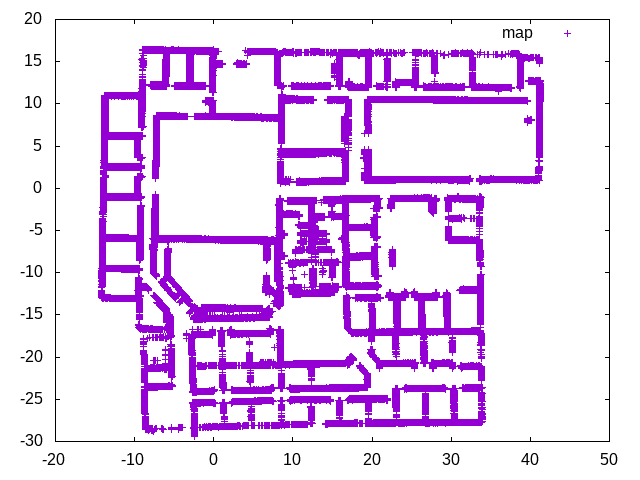
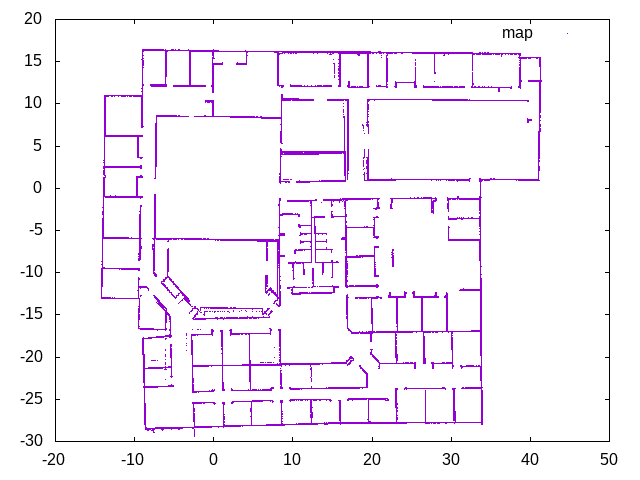
fix obj map calculating

Changed region(s): [[0.1562, 0.0938, 0.875, 0.9062]]

diff --git a/routing/routing.go b/routing/routing.go
@@ -9,9 +9,9 @@ import (
 )
 
 const (
-	CloseThreth       uint8 = 90      //これより大きいと通れない  [0,100]
-	MaxTimeLength     int   = 1000000 //これ以上のtを計算しない
-	MaxSearchTimeStep int   = 1000    //これ以上先の時間を計算しない
+	CloseThreth       int8 = 90     //これより大きいと通れない  [0,100]
+	MaxTimeLength     int  = 100000 //これ以上のtを計算しない
+	MaxSearchTimeStep int  = 1000   //これ以上先の時間を計算しない
 )
 
 type Point struct {
@@ -58,6 +58,7 @@ func NewIndexT(t, x, y int) *IndexT {
 // type CostMap map[Index]uint8
 type TimeCostMap []CostMap
 type CostMap [][]int8
+type TimeObjMap [][][]bool
 
 type GridMap struct {
 	Resolution float64
@@ -65,7 +66,7 @@ type GridMap struct {
 	Width      int
 	Height     int
 
-	TW        TimeCostMap
+	TW        TimeObjMap
 	MaxT      int
 	ObjectMap [][]bool //元からある障害物ならTrue
 }
@@ -86,44 +87,56 @@ func (g GridMap) Pos2Ind(x, y float64) (int, int) {
 	return xid, yid
 }
 
-func NewGridMap(reso float64, origin Point, maxT, width, height int, data []int8) *GridMap {
+func NewGridMap(m MapMeta, maxT int, robotRadius float64) *GridMap {
 	g := new(GridMap)
-	g.Resolution = reso
-	g.Origin = origin
-	g.Width = width
-	g.Height = height
+	g.Resolution = m.Reso
+	g.Origin = m.Origin
+	g.Width = m.W
+	g.Height = m.H
 	g.MaxT = maxT
-	g.TW = []CostMap{}
-	g.ObjectMap = make([][]bool, height)
-	g.TW = make(TimeCostMap, maxT)
+	g.ObjectMap = make([][]bool, m.H)
+	for i := 0; i < m.H; i++ {
+		g.ObjectMap[i] = make([]bool, m.W)
+	}
+	g.TW = make(TimeObjMap, maxT)
 
-	line := make([]int8, width)
-	grid := make([][]int8, height)
-	objLine := make([]bool, width)
-	for i, d := range data {
+	width := m.W
+
+	var objList [][2]float64
+	for i, d := range m.Data {
 		if d > int8(CloseThreth) {
-			objLine[i%width] = true
+			g.ObjectMap[i/width][i%width] = true
+			objList = append(objList, [2]float64{m.Origin.X + float64(i%width)*m.Reso, m.Origin.Y + float64(i/width)*m.Reso})
 		} else {
-			objLine[i%width] = false
-		}
-		line[i%width] = d
-		if i%width == width-1 {
-			grid[i/width] = line
-			line = make([]int8, width)
-			g.ObjectMap[i/width] = objLine
-			objLine = make([]bool, width)
+			g.ObjectMap[i/width][i%width] = false
 		}
 	}
+	log.Print("load ros data")
 
-	// var prx, pry int
+	start := time.Now()
+	for j := 0; j < m.H; j++ {
+		if j%2 == 1 {
+			continue
+		}
+		y := g.Origin.Y + float64(j)*m.Reso
+		for i := 0; i < m.W; i++ {
+			if i%2 == 1 {
+				continue
+			}
+			x := m.Origin.X + float64(i)*m.Reso
+			for _, op := range objList {
+				d := math.Hypot(x-op[0], y-op[1])
+				if d <= robotRadius {
+					g.ObjectMap[j][i] = true
+				}
+			}
+		}
+	}
+	elaps := time.Now().Sub(start).Seconds()
+	log.Printf("load objmap using robot radius takes %f seconds", elaps)
+
 	for i := 0; i < maxT; i++ {
-		// rx := rand.Intn(width)
-		// ry := rand.Intn(height)
-		// grid[ry][rx] = 100
-		// grid[pry][prx] = 0
-		// prx = rx
-		// pry = ry
-		g.TW[i] = grid
+		g.TW[i] = g.ObjectMap
 	}
 	return g
 }
@@ -132,11 +145,11 @@ func (m GridMap) Plan(sx, sy, gx, gy int) (route [][3]int, oerr error) {
 	startTime := time.Now()
 
 	if m.ObjectMap[gy][gx] {
-		oerr = errors.New("path planning error: goal is not verified...")
+		oerr = errors.New("path planning error: goal is not verified")
 		return nil, oerr
 	}
 	if m.ObjectMap[sy][sx] {
-		oerr = errors.New("path planning error: start point is not verified...")
+		oerr = errors.New("path planning error: start point is not verified")
 		return nil, oerr
 	}
 	start := &Node{T: 0, XId: sx, YId: sy, Cost: 0, Parent: nil}
@@ -297,11 +310,11 @@ func (n *Node) Around(g *GridMap, minTime int) []*Node {
 
 		mCost := g.TW[aT][aY][aX]
 		//通れないコストマップは外す
-		if mCost > int8(CloseThreth) {
+		if mCost {
 			continue
 		}
 
-		node := n.NewNode(aT, aX, aY, n.Cost+m[3]+float64(mCost)/10) //要修正
+		node := n.NewNode(aT, aX, aY, n.Cost+m[3]) //要修正
 		around = append(around, node)
 	}
 	return around

diff --git a/main.go b/main.go
@@ -26,9 +26,9 @@ import (
 )
 
 var (
-	mode        Mode    = ASTAR2D
+	mode        Mode    = ASTAR3D
 	resolution  float64 = 0.5
-	robotRadius float64 = 0.3
+	robotRadius float64 = 0.35
 
 	mapFile  string = "map/willow_garage_v_edited.pgm"
 	yamlFile string = "map/willow_garage_v_edited.yaml"
@@ -132,48 +132,6 @@ func subsclibeRouteSupply(client *sxutil.SXServiceClient) {
 	}
 }
 
-// func mqqtCallback(clt *sxutil.SXServiceClient, sp *api.Supply) {
-// 	if sp.SenderId == uint64(clt.ClientID) {
-// 		return
-// 	}
-
-// 	rcd := &sxmqtt.MQTTRecord{}
-// 	err := proto.Unmarshal(sp.Cdata.Entity, rcd)
-// 	if err != nil {
-// 		log.Print(err)
-// 	}
-
-// 	if strings.HasPrefix(rcd.Topic, "map/") {
-// 		if strings.HasPrefix(rcd.Topic, "map/global_costmap") {
-// 			if !mapMetaUpdate {
-// 				log.Print("updating global costmap..")
-// 				mu.Lock()
-// 				defer mu.Unlock()
-// 				var occupancy ros.OccupancyGrid
-// 				merr := json.Unmarshal(rcd.Record, &occupancy)
-// 				if merr != nil {
-// 					log.Print(merr)
-// 				} else {
-// 					mapMeta = grid.LoadROSMap(occupancy, 50)
-// 					maxT := grid.MaxTimeLength
-// 					gridMap = grid.NewGridMap(mapMeta.Reso, mapMeta.Origin, maxT, mapMeta.W, mapMeta.H, mapMeta.Data)
-// 					log.Print("global costmap updated")
-// 					mapMetaUpdate = true
-// 				}
-// 			}
-// 		}
-// 	}
-
-// }
-
-// func subsclibeMQQTSupply(client *sxutil.SXServiceClient) {
-// 	ctx := context.Background()
-// 	for {
-// 		client.SubscribeSupply(ctx, mqqtCallback)
-// 		reconnectClient(client)
-// 	}
-// }
-
 func reconnectClient(client *sxutil.SXServiceClient) {
 	mu.Lock()
 	if client.SXClient != nil {
@@ -206,9 +164,9 @@ func handleMqttMessage() {
 			} else {
 				mapMeta = grid.LoadROSMap(occupancy, 50)
 				maxT := grid.MaxTimeLength
-				gridMap = grid.NewGridMap(mapMeta.Reso, mapMeta.Origin, maxT, mapMeta.W, mapMeta.H, mapMeta.Data)
+				gridMap = grid.NewGridMap(*mapMeta, maxT, robotRadius)
 				log.Print("global costmap updated")
-				plot2d.AddPointGroup("costmap", "points", gridMap.ConvertObjMap2Point())
+				plot2d.AddPointGroup("costmap", "dots", gridMap.ConvertObjMap2Point())
 				mapMetaUpdate = true
 				plot2d.SavePlot("map/global_costmap.png")
 			}
@@ -266,25 +224,24 @@ func main() {
 	plot2d, _ = glot.NewPlot(2, false, false)
 	plot3d, _ = glot.NewPlot(3, false, false)
 
-	if mode == ASTAR2D {
-		mapMeta, err = grid.ReadStaticMapImage(yamlFile, mapFile, 230)
-		if err != nil {
-			log.Print(err)
-		}
-		objMap := mapMeta.GetObjectMap()
-		plot, _ := glot.NewPlot(2, false, false)
-		err := plot.AddPointGroup("map", "points", grid.Convert2DPoint(objMap))
-		if err != nil {
-			log.Print(err)
-		}
-		err = plot.SavePlot("map/generated_static_map.png")
-		if err != nil {
-			log.Print(err)
-		}
-		astarPlanner = astar.NewAstar(objMap, robotRadius, resolution)
+	mapMeta, err = grid.ReadStaticMapImage(yamlFile, mapFile, 0.65)
+	if err != nil {
+		log.Print(err)
 	}
-	// maxT := grid.MaxTimeLength
-	// gridMap = grid.NewGridMap(mapMeta.Reso, mapMeta.Origin, maxT, mapMeta.W, mapMeta.H, mapMeta.Data)
+	objMap := mapMeta.GetObjectMap()
+	plot, _ := glot.NewPlot(2, false, false)
+	err = plot.AddPointGroup("map", "dots", grid.Convert2DPoint(objMap))
+	if err != nil {
+		log.Print(err)
+	}
+	plot.SavePlot("map/generated_static_map.png")
+	astarPlanner = astar.NewAstar(objMap, robotRadius, resolution)
+	log.Print("load astar obj map")
+
+	maxT := grid.MaxTimeLength
+	gridMap = grid.NewGridMap(*mapMeta, maxT, robotRadius)
+	plot2d.AddPointGroup("objmap", "dots", gridMap.ConvertObjMap2Point())
+	plot2d.SavePlot("map/static_obj_map.png")
 
 	log.Print("start subscribing")
 	go handleMqttMessage()

diff --git a/routing/map.go b/routing/map.go
@@ -29,7 +29,7 @@ func LoadROSMap(grid ros.OccupancyGrid, closeThreth int) *MapMeta {
 }
 
 // read image file of ROS format
-func ReadStaticMapImage(yamlFile, mapFile string, closeThreth int) (*MapMeta, error) {
+func ReadStaticMapImage(yamlFile, mapFile string, closeThreth float64) (*MapMeta, error) {
 	m := new(MapMeta)
 	mapConfig := ReadImageYaml(yamlFile)
 	m.Reso = mapConfig.Resolution
@@ -61,7 +61,7 @@ func ReadStaticMapImage(yamlFile, mapFile string, closeThreth int) (*MapMeta, er
 
 			a := (255.0 - float64(pixelU)) / 255.0
 			var v int8 = 0
-			if a > 0.9 {
+			if a > closeThreth {
 				v = 100
 				close += 1
 			} else {
@@ -81,9 +81,6 @@ func (m MapMeta) GetObjectMap() [][2]float64 {
 	var objMap [][2]float64
 	insideWall := false
 	for i, pixel := range m.Data {
-		if i%2 != 0 {
-			continue
-		}
 
 		if pixel >= 90 {
 			if insideWall {
